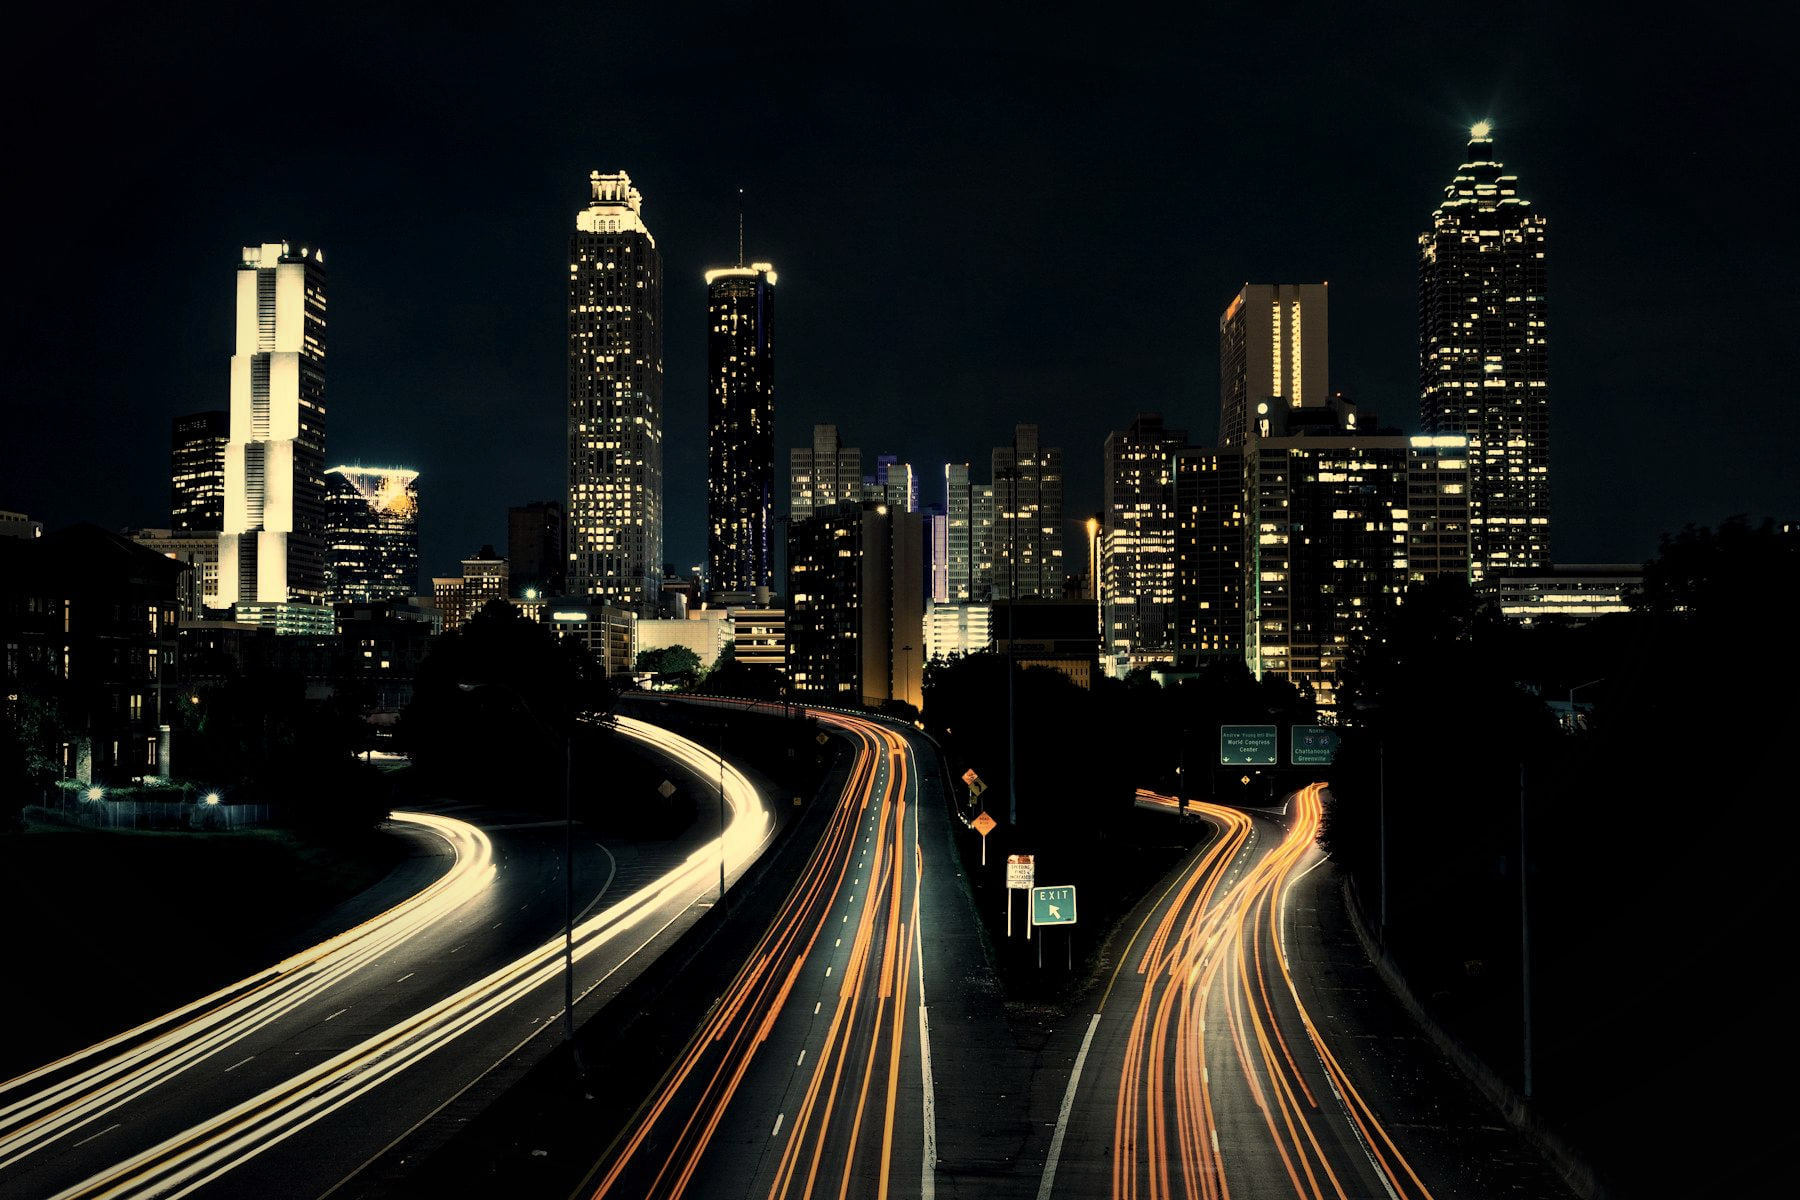
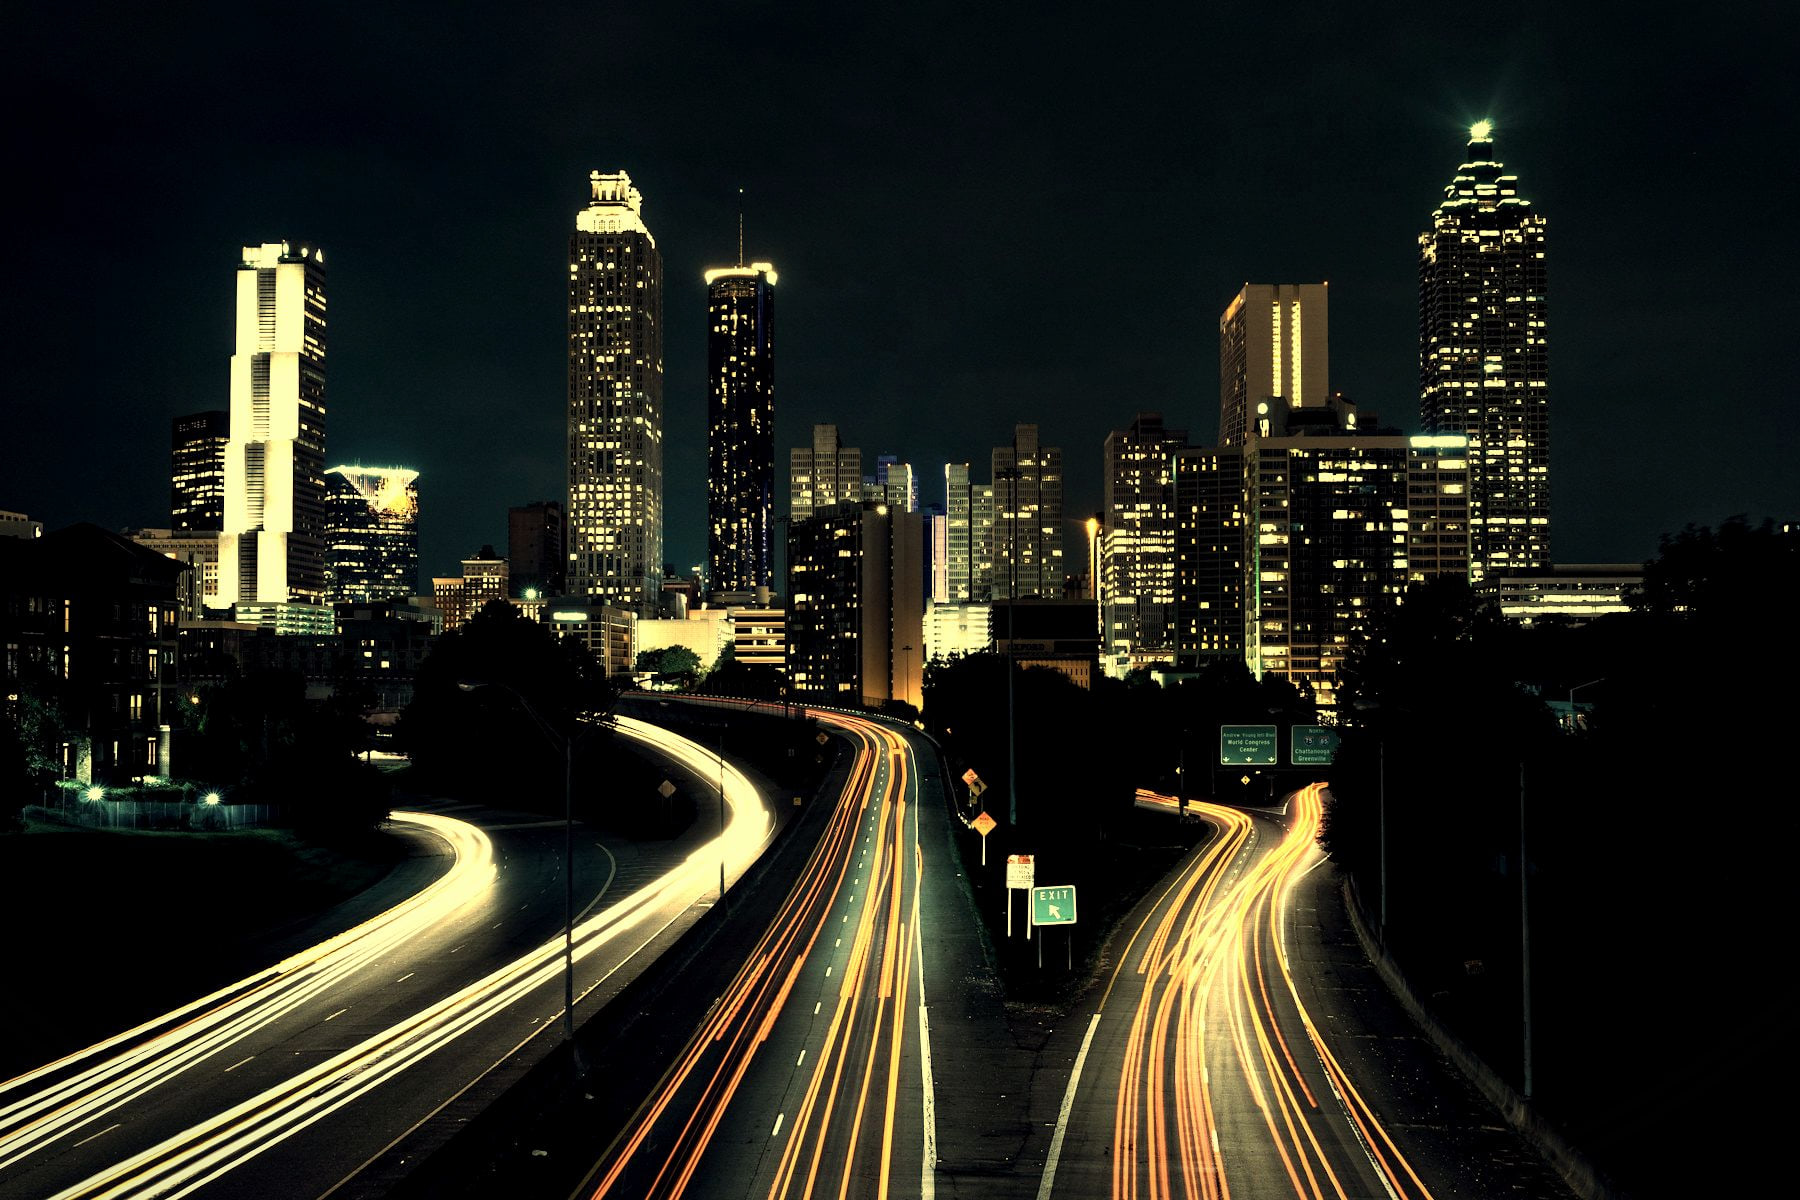
Banque d'images : etalonnage plus lumineux, or plus present
Le premier grade etait juste mais terne : saturation trop coupee, image
assombrie et vignettage lourd eteignaient le jeu. La richesse vient du
contraste et de la luminosite, pas de la saturation -- remonter celle-ci
apres le virage chaud ressuscite les bleus et vire au orange fluo.

Reglage retenu : desaturation moderee, canal bleu ecrase dans la matrice,
legere surexposition, courbe par canal plus raide, halo plus clair et
vignettage allege. README documente les deux ecueils ecartes.

Claude-Session: https://claude.ai/code/session_01WDKbmAFo47nR7FqYsjgZRp

diff --git a/assets/banque-images/README.md b/assets/banque-images/README.md
@@ -7,12 +7,19 @@ Sélection à valider : ce dossier est une réserve de candidats, pas un jeu d'a
 
 Grade unique pour tout le jeu, afin que les pages restent cohérentes entre elles :
 
-- désaturation partielle (`saturation 0.58`) — neutralise les bleus/verts qui concurrencent le bronze,
+- désaturation partielle (`saturation 0.66`) — atténue les bleus/verts qui concurrencent le bronze,
   sans virer au monochrome (la photo reste une photo)
-- matrice de canaux à dominante chaude — l'or se loge dans les hautes lumières
-- courbe par canal `[1.20, 1.12, 0.94]` — contraste + écrasement du bleu dans les ombres
-- halo bronze `#C19B6E` en haut à droite, mode `overlay` 34 % — lumière rasante d'heure dorée
-- vignettage `#0A0A0A` 40 % — les bords descendent vers le noir de la charte
+- matrice de canaux à dominante chaude, canal bleu ramené à `0.58` — l'or se loge dans les
+  hautes lumières et le bleu ne revient pas quand on remonte le contraste
+- légère surexposition (`brightness 1.04`) et courbe par canal `[1.30, 1.20, 0.96]` — c'est
+  ce couple qui donne la matière ; le premier réglage assombrissait et rendait le jeu terne
+- halo `#E6C89A` en haut à droite, mode `overlay` 28 % — lumière rasante d'heure dorée
+- vignettage `#0A0A0A` 18 %, large — pose les bords sans éteindre l'image
+
+**Deux écueils écartés en chemin**, à ne pas réintroduire : une matrice de canaux trop
+agressive donne un sépia uniforme qui lit comme un filtre daté ; et remonter la saturation
+globalement après le virage chaud ressuscite les bleus et vire au orange fluo. La richesse
+vient du contraste et de la luminosité, pas de la saturation.
 
 Reproductible via `/tmp/final-v3.cjs` (fonction `grade`, sharp `recomb` + `linear` + composite SVG).
 
